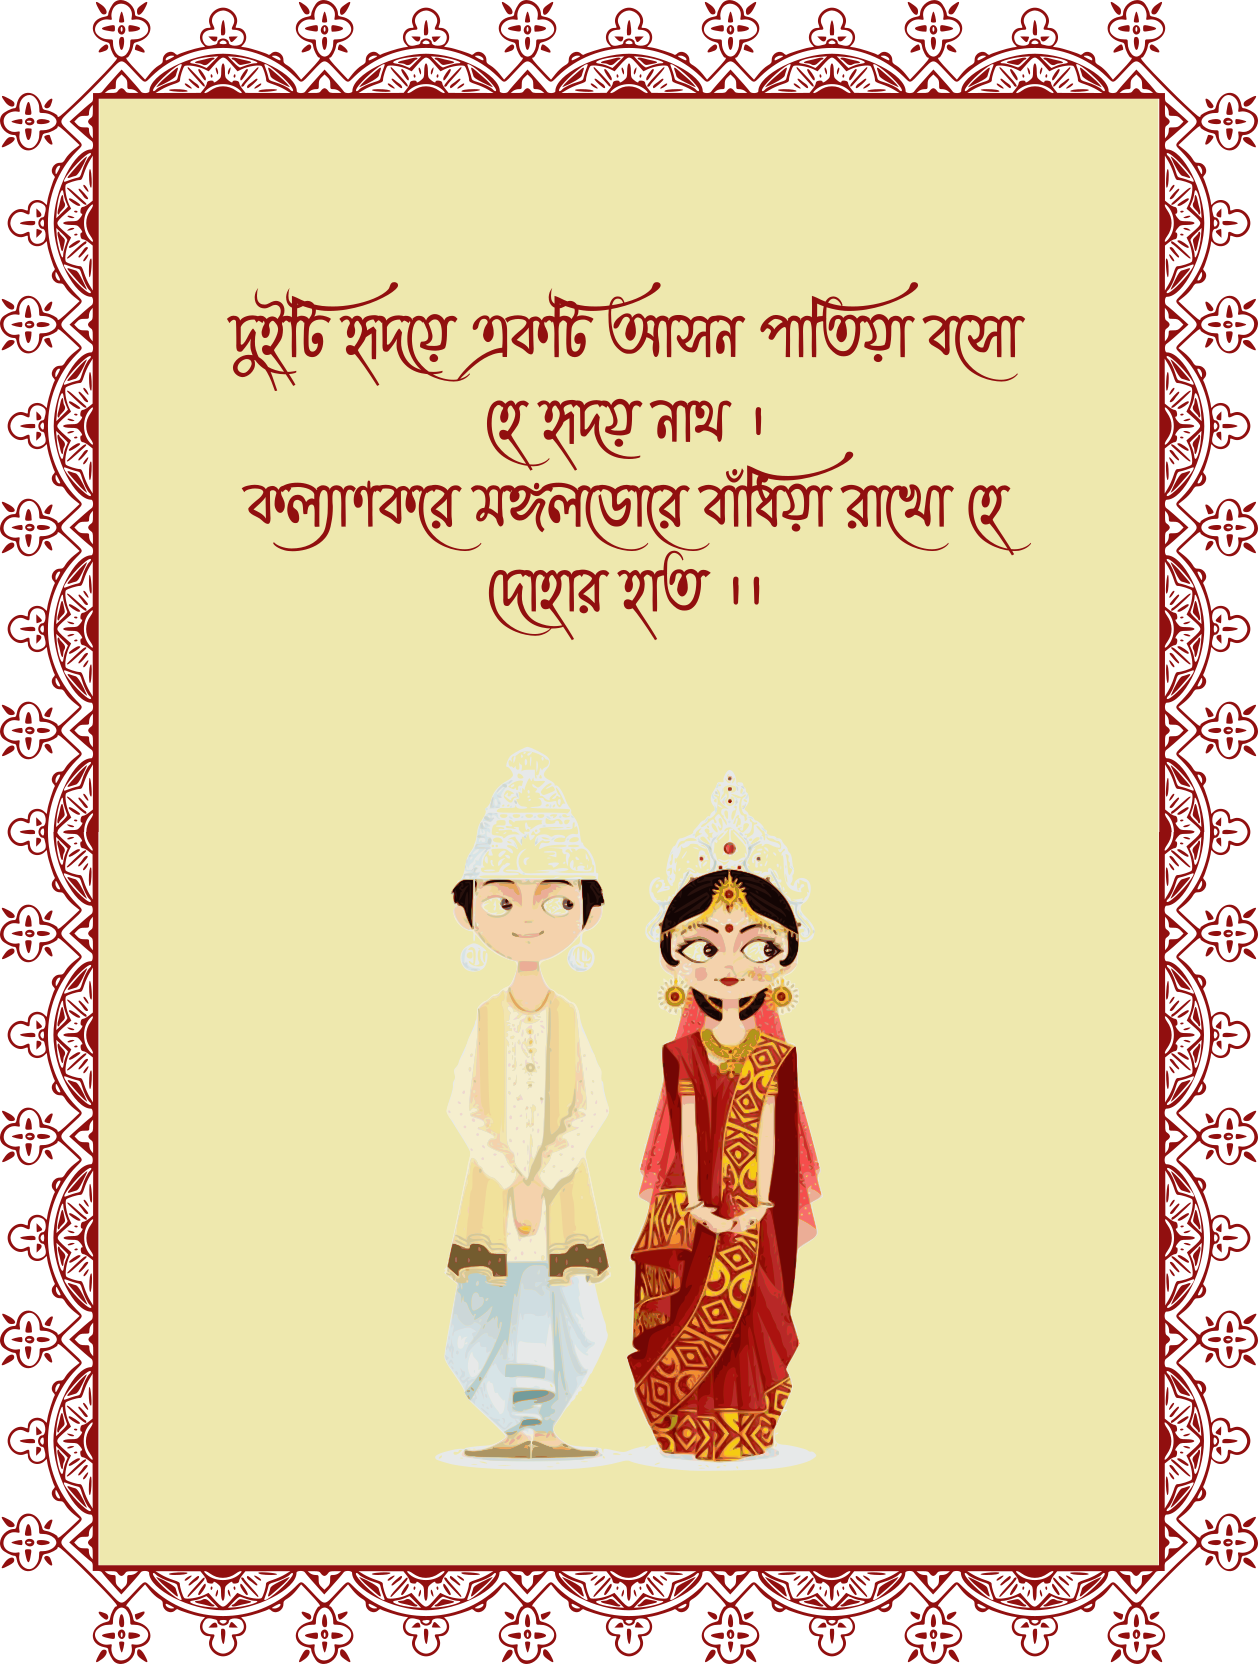
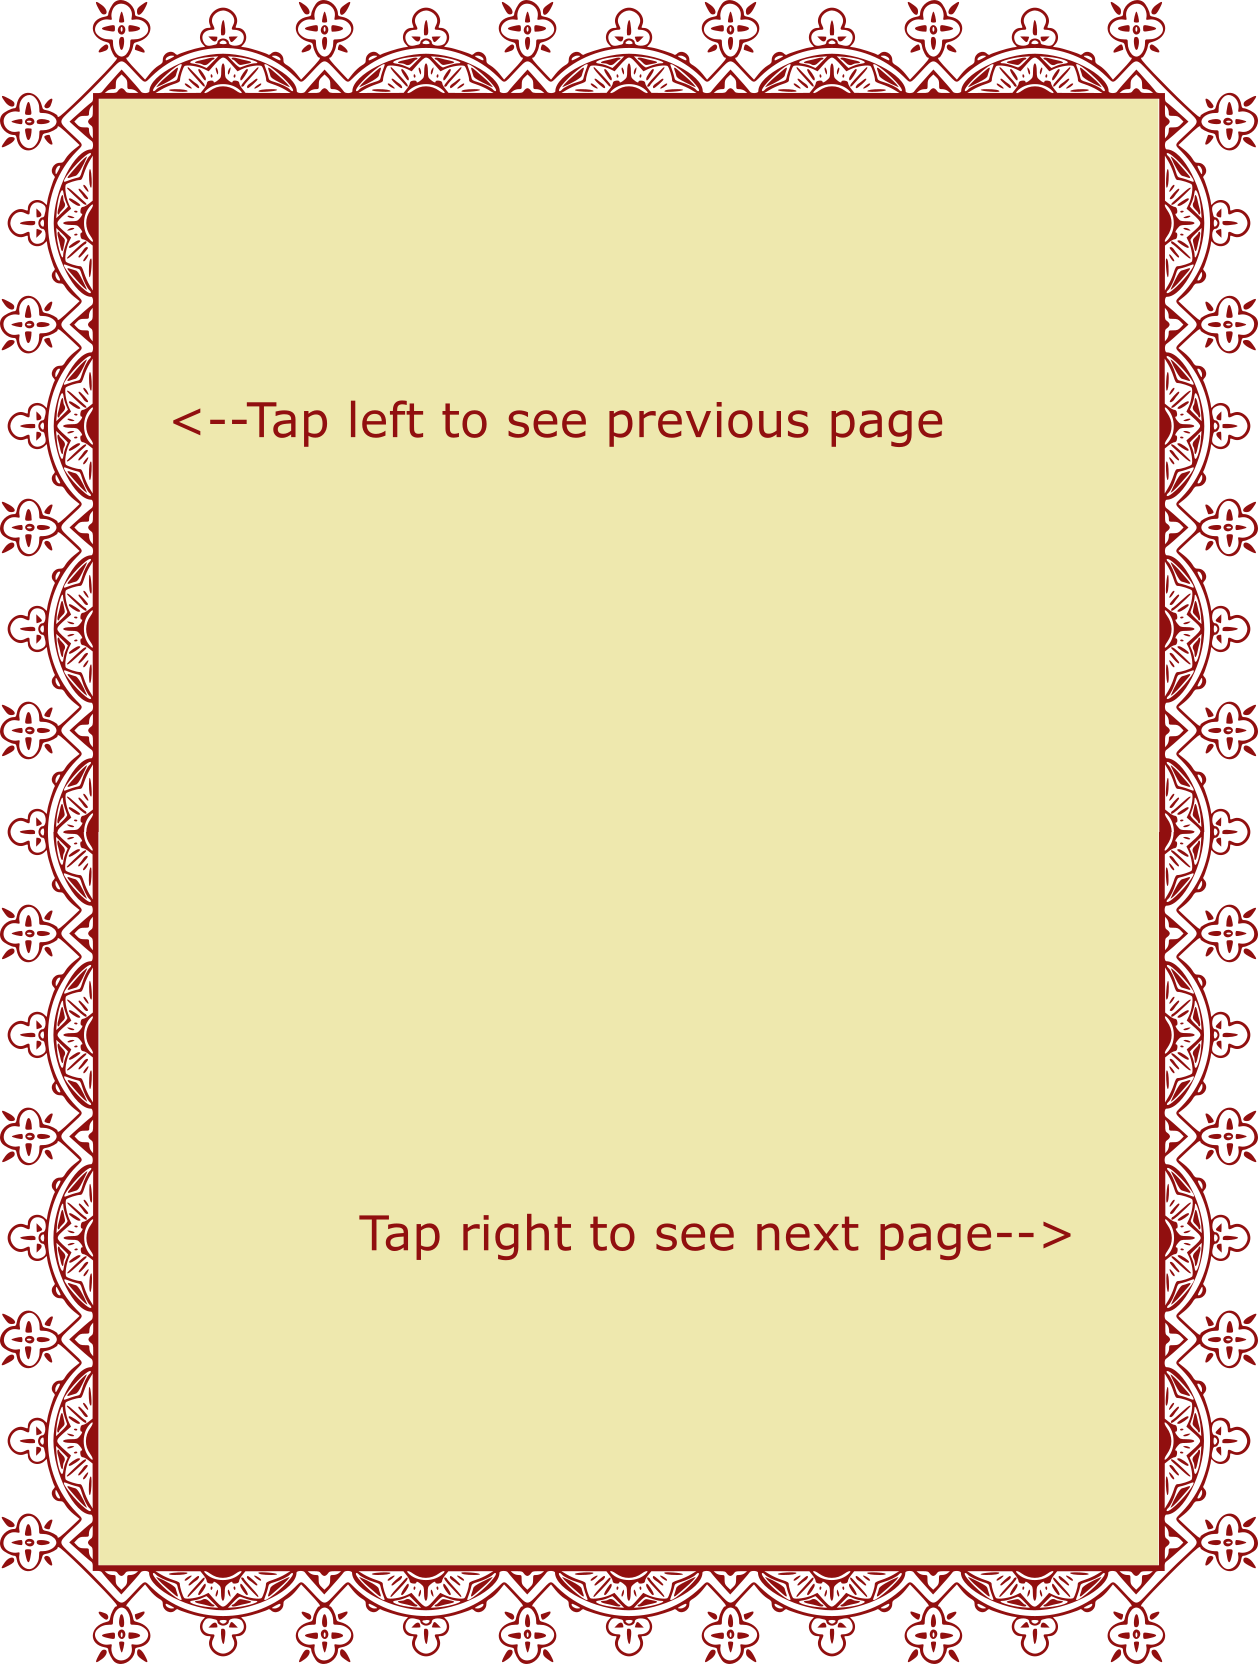
Preview 1

Changed region(s): [[0.279, 0.4375, 0.806, 0.9062], [0.186, 0.1562, 0.806, 0.375]]

diff --git a/src/Card.js b/src/Card.js
@@ -1,0 +1,48 @@
+import React, {Component} from 'react';
+import './Card.css';
+import Pager from './Pager';
+import Pagenum from './Pagenum';
+
+class Card extends Component{
+    constructor(props){
+        super(props);
+        this.state = {
+            pageNum : 1
+        }
+        this.navigateLeft = this.navigateLeft.bind(this);
+        this.navigateRight = this.navigateRight.bind(this);
+    }
+// navigation functions========================================
+    leftPage(curState) {
+        return {pageNum : curState.pageNum - 1};
+    }
+    rightPage(curState) {
+        return {pageNum : curState.pageNum + 1};
+    }
+
+    navigateLeft(){
+        if(this.state.pageNum != this.props.minPage)
+            this.setState(this.leftPage);
+    }
+    navigateRight(){
+        if(this.state.pageNum != this.props.maxPage)
+            this.setState(this.rightPage);
+    }
+// ===========================================================
+    render(){
+        return <div className="Card">
+                <section className='Carousel'>
+                    <Pager num={this.state.pageNum}/>
+                </section>
+                <div className='Pagenum'> 
+                      <Pagenum num={this.state.pageNum}/>
+                </div>
+                <button onClick={this.navigateLeft} id='left-btn'>Left</button>
+                <button onClick={this.navigateRight} id='right-btn'>Right</button>
+        
+            </div>;
+    }
+  
+}
+
+export default Card;

diff --git a/src/Pager.js b/src/Pager.js
@@ -2,7 +2,8 @@ import React, {Component} from "react";
 import "./Pager.css";
 import img1 from './assets/img1.png'
 import img2 from './assets/img2.png'
-import img3 from './assets/img3.jpg'
+import img3 from './assets/img3.png'
+import img4 from './assets/img4.png'
 
 class Pager extends Component{
     render() {
@@ -16,6 +17,9 @@ class Pager extends Component{
                 break;
             case 3:
                 imgSrc = img3;
+                break;
+            case 4:
+                imgSrc = img4;
                 break;
             default:
                 imgSrc = null;

diff --git a/src/Card.css b/src/Card.css
@@ -1,0 +1,35 @@
+.Card {
+    display: flex;
+}
+
+button {
+    border: none;
+    background-color: rgb(250, 234, 88);
+    width: 50%;
+    height: 100%;
+    opacity: 0;
+    position: absolute;
+}
+
+#left-btn {
+    left: 0;
+}
+
+#right-btn {
+    right: 0;
+}
+
+/* .Carousel {
+    background-color: brown;
+} */
+
+.Pagenum {
+    position: absolute;
+    bottom: 20px;
+    display: flex;
+    justify-content: center;
+    align-items: center;
+    height: 10px;
+    width: 100%;
+
+}

diff --git a/src/App.js b/src/App.js
@@ -1,19 +1,10 @@
 import './App.css';
-import Pager from './Pager.js';
-import Pagenum from './Pagenum';
+import Card from './Card';
 
 function App() {
   return (
     <div className="App">
-    	<section className='Carousel'>
-        	<Pager num={1}/>
-		</section>
-        <div className='Pagenum'> 
-          	<Pagenum num={3}/>
-        </div>
-		<button id='left-btn'>Left</button>
-		<button id='right-btn'>Right</button>
-
+    	<Card maxPage={4} minPage={1} />
     </div>
   );
 }

diff --git a/src/Pager.css b/src/Pager.css
@@ -9,6 +9,6 @@
 }
 
 img {
-    height: auto;
+    max-height: 90vh;
     max-width: 100%;
 }
